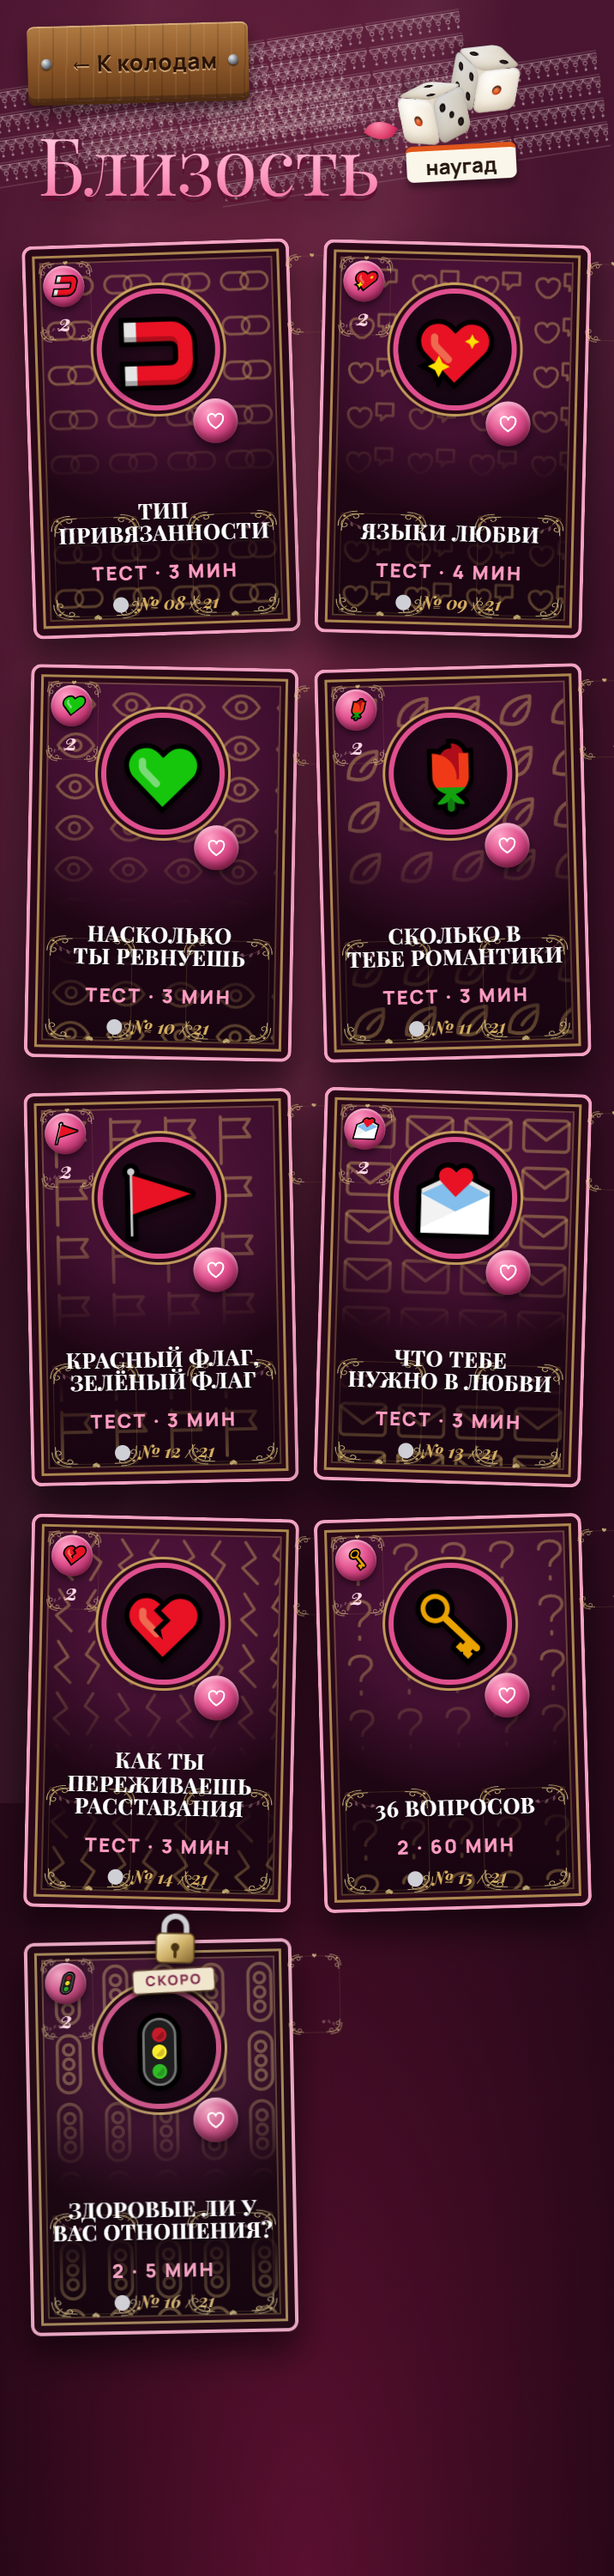
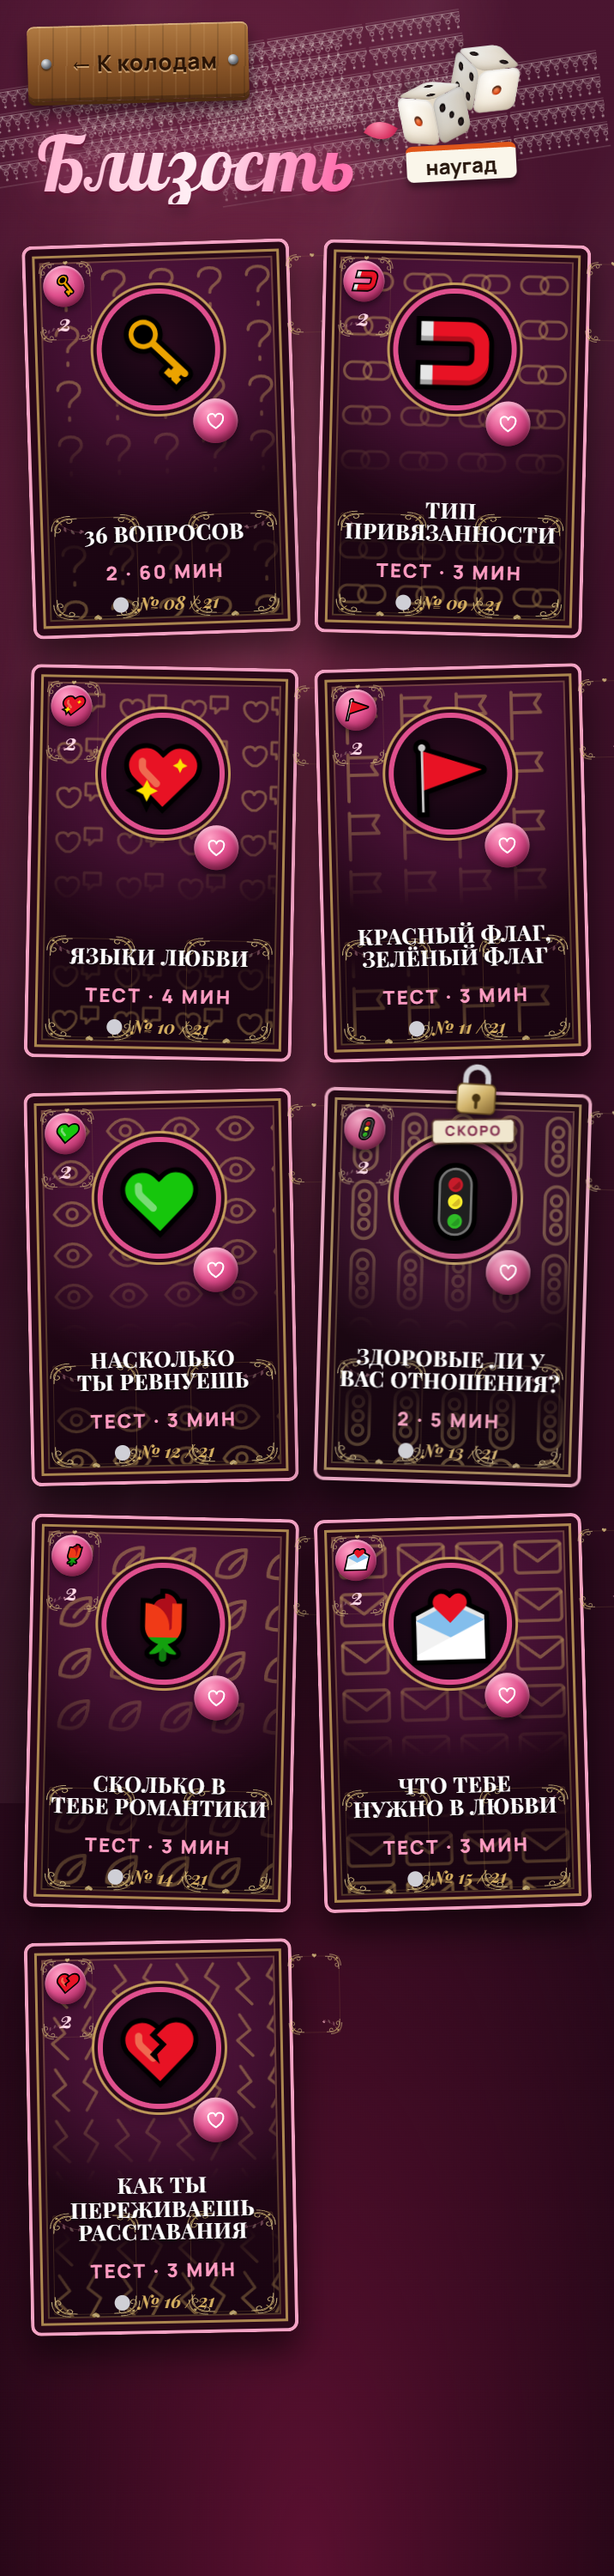
Романтика: заголовки и названия колод — рукописный глянцевый Lobster как в макете; на «Близость» заголовок не налезает на кубики; порядок карт и эмодзи в колодах как в макете («Я никогда не…» 🙈, «Норм или стрём» в конце, «Близость» и «Совместимость» по макету); главный экран не сжимается ниже 695 и 

Changed region(s): [[0.0615, 0.031, 0.9525, 0.744], [0.0615, 0.434, 0.4609, 0.899], [0.0922, 0.434, 0.1536, 0.496]]

diff --git a/apps/web/components/love/love.css b/apps/web/components/love/love.css
@@ -139,16 +139,16 @@
   position: relative;
   z-index: 3;
   margin: 28px 0 0 -4px;
-  font-family: var(--font-playfair);
+  font-family: "Lobster", cursive;
   font-weight: 400;
-  font-size: clamp(56px, 18.5vw, 84px);
-  line-height: 1;
-  letter-spacing: -0.01em;
   color: transparent;
-  background: linear-gradient(180deg, #ffc2da, #ff7fb0 62%, #e9568f);
+  background: linear-gradient(100deg, #ffb0cf, #fff0f5 30%, #ff6fae 55%, #ffd9e6 75%, #e0508e);
   -webkit-background-clip: text;
   background-clip: text;
-  filter: drop-shadow(0 3px 0 rgb(90 10 45 / 0.7)) drop-shadow(0 8px 10px rgb(0 0 0 / 0.35));
+  filter: drop-shadow(0 0 10px rgb(255 111 174 / 0.65)) drop-shadow(0 2px 0 #4a0a24) drop-shadow(0 4px 3px rgb(0 0 0 / 0.35));
+  font-size: clamp(56px, 18.5vw, 84px);
+  line-height: 1.05;
+  white-space: nowrap;
 }
 .lv-sub {
   position: relative;

diff --git a/apps/web/components/love/love-main.css b/apps/web/components/love/love-main.css
@@ -40,17 +40,16 @@
   top: 66px;
   z-index: 3;
   margin: 0;
-  font-family: var(--font-playfair);
+  font-family: "Lobster", cursive;
   font-weight: 400;
-  font-size: 66px;
-  line-height: 1.05;
-  letter-spacing: -0.01em;
-  white-space: nowrap;
   color: transparent;
-  background: linear-gradient(180deg, #ffc2da, #ff7fb0 62%, #e9568f);
+  background: linear-gradient(100deg, #ffb0cf, #fff0f5 30%, #ff6fae 55%, #ffd9e6 75%, #e0508e);
   -webkit-background-clip: text;
   background-clip: text;
-  filter: drop-shadow(0 3px 0 rgb(90 10 45 / 0.7)) drop-shadow(0 8px 10px rgb(0 0 0 / 0.35));
+  filter: drop-shadow(0 0 10px rgb(255 111 174 / 0.65)) drop-shadow(0 2px 0 #4a0a24) drop-shadow(0 4px 3px rgb(0 0 0 / 0.35));
+  font-size: 64px;
+  line-height: 1.05;
+  white-space: nowrap;
 }
 .lm-sub {
   left: 17px;

diff --git a/apps/web/app/fonts.css b/apps/web/app/fonts.css
@@ -11,6 +11,8 @@
 @import "@fontsource/playfair-display/cyrillic-700-italic.css";
 @import "@fontsource/playfair-display/latin-900-italic.css";
 @import "@fontsource/playfair-display/cyrillic-900-italic.css";
+@import "@fontsource/lobster/latin-400.css";
+@import "@fontsource/lobster/cyrillic-400.css";
 @import "@fontsource/marck-script/latin-400.css";
 @import "@fontsource/marck-script/cyrillic-400.css";
 @import "@fontsource/kelly-slab/latin-400.css";

diff --git a/apps/web/components/love/LoveScene.tsx b/apps/web/components/love/LoveScene.tsx
@@ -101,7 +101,7 @@ export function GoldLock() {
 const STAGE_W = 358;
 const STAGE_H = 695;
 /** Самая низкая сцена, которую ещё можно сжать: ниже масштаб падает и по бокам остаются пустые поля. */
-const MIN_STAGE_H = 640;
+const MIN_STAGE_H = 695;
 const MAX_SCALE = 1.25;
 
 function fitStage(pageEl: HTMLElement, stageEl: HTMLElement): void {

diff --git a/apps/web/components/love/love-deck.css b/apps/web/components/love/love-deck.css
@@ -10,11 +10,8 @@
 }
 .ld-page .lv-title.ld-title {
   margin: 14px 0 0 6px;
-  font-size: clamp(44px, 13vw, 58px);
+  font-size: clamp(40px, 12.4vw, 54px);
   font-weight: 400;
-  background: linear-gradient(180deg, #ffd0e2, #ff9cc2 62%, #ee6f9f);
-  -webkit-background-clip: text;
-  background-clip: text;
 }
 .ld-page .lv-inner {
   padding-bottom: calc(40px + env(safe-area-inset-bottom));
